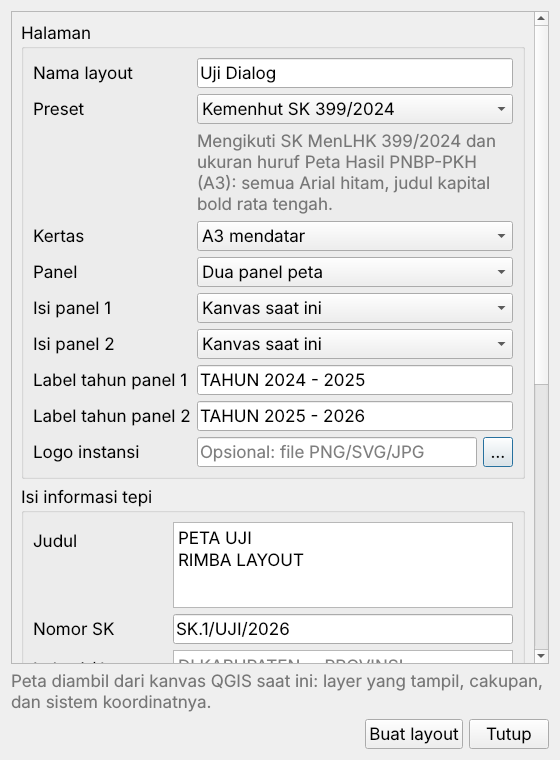
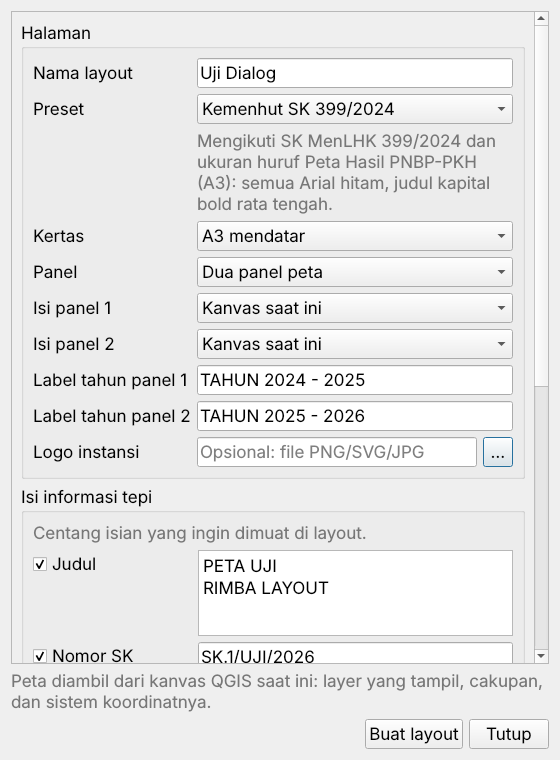
0.2.2: centang per isian informasi tepi, ikon di toolbar Layout Designer
Claude-Session: https://claude.ai/code/session_01JTWnDubE4YR1TQKa92eg6f

Changed region(s): [[0.0607, 0.6961, 0.6679, 0.7868], [0.3036, 0.7868, 0.9107, 0.8776], [0.0607, 0.8171, 0.2429, 0.8776]]

diff --git a/rimba_layout/dialog.py b/rimba_layout/dialog.py
@@ -4,6 +4,7 @@
 import os
 
 from qgis.core import QgsApplication, QgsProject, QgsSettings
+from qgis.PyQt.QtCore import Qt
 from qgis.PyQt.QtWidgets import (
     QCheckBox, QComboBox, QDialog, QDialogButtonBox, QFileDialog,
     QFormLayout, QGroupBox, QHBoxLayout, QLabel, QLineEdit, QMessageBox,
@@ -26,6 +27,25 @@ PLACEHOLDER = {
     "instansi": "KEMENTERIAN KEHUTANAN\nDIREKTORAT JENDERAL ...\nBALAI ...\n"
                 "2026",
 }
+
+
+def INFO_FIELDS(dlg):  # noqa: N802
+    """(kunci, nama di form, widget isian) informasi tepi, urut tampil."""
+    return [
+        ("judul", "Judul", dlg.ed_judul),
+        ("sk", "Nomor SK", dlg.ed_sk),
+        ("lokasi", "Lokasi / luas", dlg.ed_lokasi),
+        ("dasar", "Dasar", dlg.ed_dasar),
+        ("sumber", "Sumber peta", dlg.ed_sumber),
+        ("catatan", "Catatan", dlg.ed_catatan),
+        ("ttd", "Tanda tangan", dlg.ed_ttd),
+        ("instansi", "Instansi penerbit", dlg.ed_instansi),
+    ]
+
+
+# isian yang tercentang saat dialog pertama kali dibuka
+DEFAULT_ON = {"judul", "sk", "lokasi", "dasar", "sumber", "catatan",
+              "instansi"}
 
 
 def user_preset_dir():
@@ -107,25 +127,27 @@ class RimbaLayoutDialog(QDialog):
 
         g = QGroupBox("Isi informasi tepi")
         f = QFormLayout(g)
+        f.setLabelAlignment(Qt.AlignmentFlag.AlignLeft |
+                            Qt.AlignmentFlag.AlignTop)
+        hint = QLabel("Centang isian yang ingin dimuat di layout.")
+        hint.setStyleSheet("color:#777;")
+        f.addRow(hint)
         self.ed_judul = _text_box("judul", 4)
-        f.addRow("Judul", self.ed_judul)
         self.ed_sk = QLineEdit()
         self.ed_sk.setPlaceholderText(PLACEHOLDER["sk"])
-        f.addRow("Nomor SK", self.ed_sk)
         self.ed_lokasi = _text_box("lokasi", 2)
-        f.addRow("Lokasi / luas", self.ed_lokasi)
         self.ed_dasar = _text_box("dasar", 3)
-        f.addRow("Dasar", self.ed_dasar)
         self.ed_sumber = _text_box("sumber", 3)
-        f.addRow("Sumber peta", self.ed_sumber)
         self.ed_catatan = _text_box("catatan", 2)
-        f.addRow("Catatan", self.ed_catatan)
-        self.chk_ttd = QCheckBox("Tambahkan blok tanda tangan")
-        f.addRow("", self.chk_ttd)
         self.ed_ttd = _text_box("ttd", 4)
-        f.addRow("Tanda tangan", self.ed_ttd)
         self.ed_instansi = _text_box("instansi", 4)
-        f.addRow("Instansi penerbit", self.ed_instansi)
+        self.chk = {}
+        for key, title, field in INFO_FIELDS(self):
+            chk = QCheckBox(title)
+            chk.toggled.connect(field.setEnabled)
+            self.chk[key] = chk
+            f.addRow(chk, field)
+        self.chk_ttd = self.chk["ttd"]
         main.addWidget(g)
         main.addStretch(1)
 
@@ -144,7 +166,6 @@ class RimbaLayoutDialog(QDialog):
 
         self.cb_preset.currentIndexChanged.connect(self.update_desc)
         self.cb_panels.currentIndexChanged.connect(self.update_enabled)
-        self.chk_ttd.toggled.connect(self.update_enabled)
 
     # ------------------------------------------------------------ data
     def reload_presets(self):
@@ -180,7 +201,8 @@ class RimbaLayoutDialog(QDialog):
         two = self.cb_panels.currentData() == 2
         self.cb_theme2.setEnabled(two)
         self.ed_year2.setEnabled(two)
-        self.ed_ttd.setEnabled(self.chk_ttd.isChecked())
+        for key, _, field in INFO_FIELDS(self):
+            field.setEnabled(self.chk[key].isChecked())
 
     def current_preset(self, quiet=False):
         path = self.cb_preset.currentData()
@@ -235,7 +257,9 @@ class RimbaLayoutDialog(QDialog):
         i = self.cb_preset.findData(s.value(SKEY + "preset", "", type=str))
         if i >= 0:
             self.cb_preset.setCurrentIndex(i)
-        self.chk_ttd.setChecked(s.value(SKEY + "use_ttd", False, type=bool))
+        for key, _, _ in INFO_FIELDS(self):
+            self.chk[key].setChecked(s.value(
+                SKEY + "use_" + key, key in DEFAULT_ON, type=bool))
         self.update_enabled()
 
     def _save(self):
@@ -245,9 +269,17 @@ class RimbaLayoutDialog(QDialog):
         s.setValue(SKEY + "paper", self.cb_paper.currentData())
         s.setValue(SKEY + "panels", self.cb_panels.currentData())
         s.setValue(SKEY + "preset", self.cb_preset.currentData())
-        s.setValue(SKEY + "use_ttd", self.chk_ttd.isChecked())
+        for key, _, _ in INFO_FIELDS(self):
+            s.setValue(SKEY + "use_" + key, self.chk[key].isChecked())
 
     # ------------------------------------------------------------ buat
+    def _val(self, key):
+        """Isi field bila dicentang; kosong berarti tidak dimuat."""
+        if not self.chk[key].isChecked():
+            return ""
+        field = dict((k, w) for k, _, w in INFO_FIELDS(self))[key]
+        return self._get(field).strip()
+
     def build(self):
         pre = self.current_preset()
         if pre is None:
@@ -270,16 +302,15 @@ class RimbaLayoutDialog(QDialog):
             themes=[None if t == CANVAS else t for t in themes],
             years=[self.ed_year1.text().strip(),
                    self.ed_year2.text().strip() if panels == 2 else ""],
-            judul=self.ed_judul.toPlainText().strip() or "JUDUL PETA",
-            sk=self.ed_sk.text().strip(),
-            lokasi=self.ed_lokasi.toPlainText().strip(),
-            dasar=self.ed_dasar.toPlainText().strip(),
-            sumber=self.ed_sumber.toPlainText().strip(),
-            catatan=self.ed_catatan.toPlainText().strip(),
-            ttd=(self.ed_ttd.toPlainText().strip()
-                 if self.chk_ttd.isChecked() else ""),
+            judul=self._val("judul"),
+            sk=self._val("sk"),
+            lokasi=self._val("lokasi"),
+            dasar=self._val("dasar"),
+            sumber=self._val("sumber"),
+            catatan=self._val("catatan"),
+            ttd=self._val("ttd"),
             logo=self.ed_logo.text().strip(),
-            instansi=self.ed_instansi.toPlainText().strip(),
+            instansi=self._val("instansi"),
             layers=layers,
             extent=canvas.extent(),
             crs=canvas.mapSettings().destinationCrs(),

diff --git a/rimba_layout/core/builder.py b/rimba_layout/core/builder.py
@@ -52,7 +52,7 @@ class BuildOptions:
         self.panels = kw.get("panels", 1)
         self.themes = kw.get("themes", [None, None])     # nama tema peta
         self.years = kw.get("years", ["", ""])           # label tahun panel
-        self.judul = kw.get("judul", "JUDUL PETA")
+        self.judul = kw.get("judul", "")
         self.sk = kw.get("sk", "")
         self.lokasi = kw.get("lokasi", "")
         self.dasar = kw.get("dasar", "")
@@ -285,8 +285,24 @@ class _Builder:
         # ---- panel informasi tepi (x 330..410)
         x0, w0 = 330, 80
         ttd = bool(o.ttd.strip())
+        notes = [(head, body.strip(), role, ident) for head, body, role, ident
+                 in (("DASAR :", o.dasar, "sumber_data", "dasar"),
+                     ("SUMBER PETA :", o.sumber, "sumber_data", "sumber"),
+                     ("CATATAN :", o.catatan, "catatan", "catatan"))
+                 if body.strip()]
         heights = ([106, 50, 38, 28, 30, 15] if ttd
                    else [108, 65, 45, 36, 0, 15])
+        # bagian yang tidak dicentang tidak dibuat; ruangnya dipindah
+        if not notes:                      # dasar/sumber/catatan kosong
+            heights[1] += heights[2] + 2
+            heights[2] = 0
+        else:                              # tinggi menurut jumlah bagian
+            want = 2 + 14 * len(notes) if len(notes) < 3 else heights[2]
+            heights[1] += heights[2] - want
+            heights[2] = want
+        if not o.instansi.strip():
+            heights[3] += heights[5] + 2
+            heights[5] = 0
         ys, y = [], 10.0
         for hgt in heights:
             ys.append(y)
@@ -305,9 +321,10 @@ class _Builder:
             self.add(pic, self.r(x0 + w0 / 2 - 6.25, head_y + 3, 12.5,
                                  12.7), "logo", "logo")
             self.stack.append(["item", pic, 3.5])
-        self.stack.append(["item", self.label(
-            o.judul, cx, head_y + 20, cw, 18, "judul", "judul",
-            align="center"), 1.0])
+        if o.judul.strip():
+            self.stack.append(["item", self.label(
+                o.judul, cx, head_y + 20, cw, 18, "judul", "judul",
+                align="center"), 1.0])
         if o.sk.strip():
             self.stack.append(["item", self.label(
                 o.sk, cx, head_y + 38, cw, 5, "teks", "sk",
@@ -316,7 +333,8 @@ class _Builder:
             self.stack.append(["item", self.label(
                 o.lokasi, cx, head_y + 43, cw, 9, "subjudul", "lokasi",
                 align="center"), 1.0])
-        self.stack[-1][2] = 2.5           # jarak teks terakhir ke huruf U
+        if self.stack:
+            self.stack[-1][2] = 2.5       # jarak teks terakhir ke huruf U
         self.stack.append(["item", self.label(
             "U", x0 + w0 / 2 - 5, head_y + 54, 10, 5, "huruf_utara",
             "huruf_u", align="center"), 1.5])
@@ -355,18 +373,15 @@ class _Builder:
                  "legenda")
         self.ket_items.append(leg)
 
-        # dasar, sumber, catatan
-        self.box(x0, das_y, w0, h_das)
-        part = h_das / 3.0
-        for i, (head, body, role) in enumerate((
-                ("DASAR :", o.dasar, "sumber_data"),
-                ("SUMBER PETA :", o.sumber, "sumber_data"),
-                ("CATATAN :", o.catatan, "catatan"))):
-            yy = das_y + 2 + i * part
-            ident = ("dasar", "sumber", "catatan")[i]
-            self.label(head, cx, yy, cw, 4, "judul_bagian",
-                       "judul_" + ident)
-            self.label(body, cx, yy + 4, cw, part - 5, role, ident)
+        # dasar, sumber, catatan (hanya yang diisi)
+        if notes:
+            self.box(x0, das_y, w0, h_das)
+            part = (h_das - 2) / float(len(notes))
+            for i, (head, body, role, ident) in enumerate(notes):
+                yy = das_y + 2 + i * part
+                self.label(head, cx, yy, cw, 4, "judul_bagian",
+                           "judul_" + ident)
+                self.label(body, cx, yy + 4, cw, part - 5, role, ident)
 
         # peta situasi
         self.box(x0, sit_y, w0, h_sit)
@@ -383,10 +398,11 @@ class _Builder:
                        "ttd", align="center")
 
         # instansi penerbit
-        self.box(x0, ins_y, w0, h_ins)
-        self.label(o.instansi, cx, ins_y + 1.5, cw, h_ins - 3,
-                   "instansi_penerbit", "instansi", align="center",
-                   valign="center")
+        if o.instansi.strip():
+            self.box(x0, ins_y, w0, h_ins)
+            self.label(o.instansi, cx, ins_y + 1.5, cw, h_ins - 3,
+                       "instansi_penerbit", "instansi", align="center",
+                       valign="center")
 
         # gaya dari preset (grid, huruf, bingkai)
         _, warns = apply.apply_preset(self.layout, self.preset, self.roles,

diff --git a/rimba_layout/rimba_layout.py b/rimba_layout/rimba_layout.py
@@ -3,6 +3,7 @@
 
 import os
 
+from qgis.core import Qgis, QgsMessageLog
 from qgis.PyQt.QtGui import QIcon
 
 try:  # Qt6 / QGIS 4: QAction ada di QtGui
@@ -30,8 +31,31 @@ class RimbaLayoutPlugin:
         self.action.triggered.connect(self.run)
         self.iface.addToolBarIcon(self.action)
         self.iface.addPluginToMenu(MENU, self.action)
+        # ikon juga di toolbar Layout Designer
+        self.iface.layoutDesignerOpened.connect(self._add_to_designer)
+        try:                         # designer yang sudah terbuka
+            for designer in self.iface.openLayoutDesigners() or []:
+                self._add_to_designer(designer)
+        except (AttributeError, TypeError):
+            pass
+
+    def _add_to_designer(self, designer):
+        try:
+            tb = designer.actionsToolbar()
+            if tb is not None and self.action not in tb.actions():
+                tb.addAction(self.action)
+        except (AttributeError, RuntimeError) as err:
+            QgsMessageLog.logMessage(
+                "Gagal menambah ikon ke Layout Designer: {}".format(err),
+                "Rimba Layout", Qgis.MessageLevel.Warning)
 
     def unload(self):
+        try:
+            self.iface.layoutDesignerOpened.disconnect(self._add_to_designer)
+        except (TypeError, RuntimeError):
+            QgsMessageLog.logMessage(
+                "Sinyal Layout Designer sudah terputus.", "Rimba Layout",
+                Qgis.MessageLevel.Info)
         self.iface.removePluginMenu(MENU, self.action)
         self.iface.removeToolBarIcon(self.action)
         if self.dlg:

diff --git a/tests/test_builder.py b/tests/test_builder.py
@@ -90,11 +90,13 @@ CASES = [
           ttd="TIM PELAKSANA\nKETUA\n\n\nNAMA\nNIP. 1990")),
     ("Klasik A4", "Klasik", dict(paper="A4", panels=1)),
     ("Minimalis A1", "Minimalis", dict(paper="A1", panels=1)),
+    ("Tanpa dasar sumber instansi", "Kemenhut SK 399/2024",
+     dict(paper="A3", panels=1, dasar="", sumber="", instansi="")),
 ]
 
 for title, preset, extra in CASES:
     print("== " + title)
-    opts = builder.BuildOptions(name=title, **BASE, **extra)
+    opts = builder.BuildOptions(name=title, **dict(BASE, **extra))
     lay, warns = builder.build_layout(QgsProject.instance(), P[preset], opts)
     warns = [w for w in warns if "tidak terpasang" not in w]
     check(not warns, "tanpa peringatan {}".format(warns or ""))
@@ -162,6 +164,12 @@ for title, preset, extra in CASES:
     got = [lab.text() for lab in labels(lay) if lab.id().startswith(
         "tahun_")]
     check(sorted(got) == sorted(years), "label tahun: {}".format(got))
+    for key in ("dasar", "sumber", "instansi"):
+        want = bool(BASE.get(key)) if key not in extra else bool(extra[key])
+        check((by_id(lay, key) is not None) == want and
+              (key == "instansi" or
+               (by_id(lay, "judul_" + key) is not None) == want),
+              "{} {}".format(key, "dimuat" if want else "tidak dimuat"))
     png = os.path.join(OUT, "rimba_" + title.replace(" ", "_") + ".png")
     s = QgsLayoutExporter.ImageExportSettings()
     s.dpi = 90

diff --git a/tests/test_dialog.py b/tests/test_dialog.py
@@ -73,7 +73,10 @@ dlg.ed_year2.setText("TAHUN 2025 - 2026")
 dlg.ed_judul.setPlainText("PETA UJI\nRIMBA LAYOUT")
 dlg.ed_sk.setText("SK.1/UJI/2026")
 dlg.ed_instansi.setPlainText("KEMENTERIAN KEHUTANAN\n2026")
+dlg.chk["dasar"].setChecked(False)
+check(not dlg.ed_dasar.isEnabled(), "Dasar tidak dicentang: isian mati")
 dlg.chk_ttd.setChecked(True)
+check(dlg.ed_ttd.isEnabled(), "Tanda tangan dicentang: isian aktif")
 dlg.ed_ttd.setPlainText("KETUA\n\n\nNAMA")
 dlg.build()
 lay = QgsProject.instance().layoutManager().layoutByName("Uji Dialog")
@@ -82,10 +85,14 @@ check(iface.openLayoutDesigner.called, "Layout Designer dibuka")
 ids = {i.id() for i in lay.items() if hasattr(i, "id")} if lay else set()
 check({"Map 1", "Map 2", "Peta Situasi", "ttd", "tahun_1",
        "tahun_2"} <= ids, "dua panel, TTD, dua label tahun ada")
+check("dasar" not in ids and "judul_dasar" not in ids,
+      "Dasar tidak dicentang: tidak dimuat di layout")
 
 print("== Isian diingat")
 plugin.dlg = None
 plugin.run()
+check(not plugin.dlg.chk["dasar"].isChecked(),
+      "status centang diingat")
 check(plugin.dlg.ed_sk.text() == "SK.1/UJI/2026" and
       plugin.dlg.cb_panels.currentData() == 2,
       "isian terakhir muncul lagi saat dialog dibuka")
